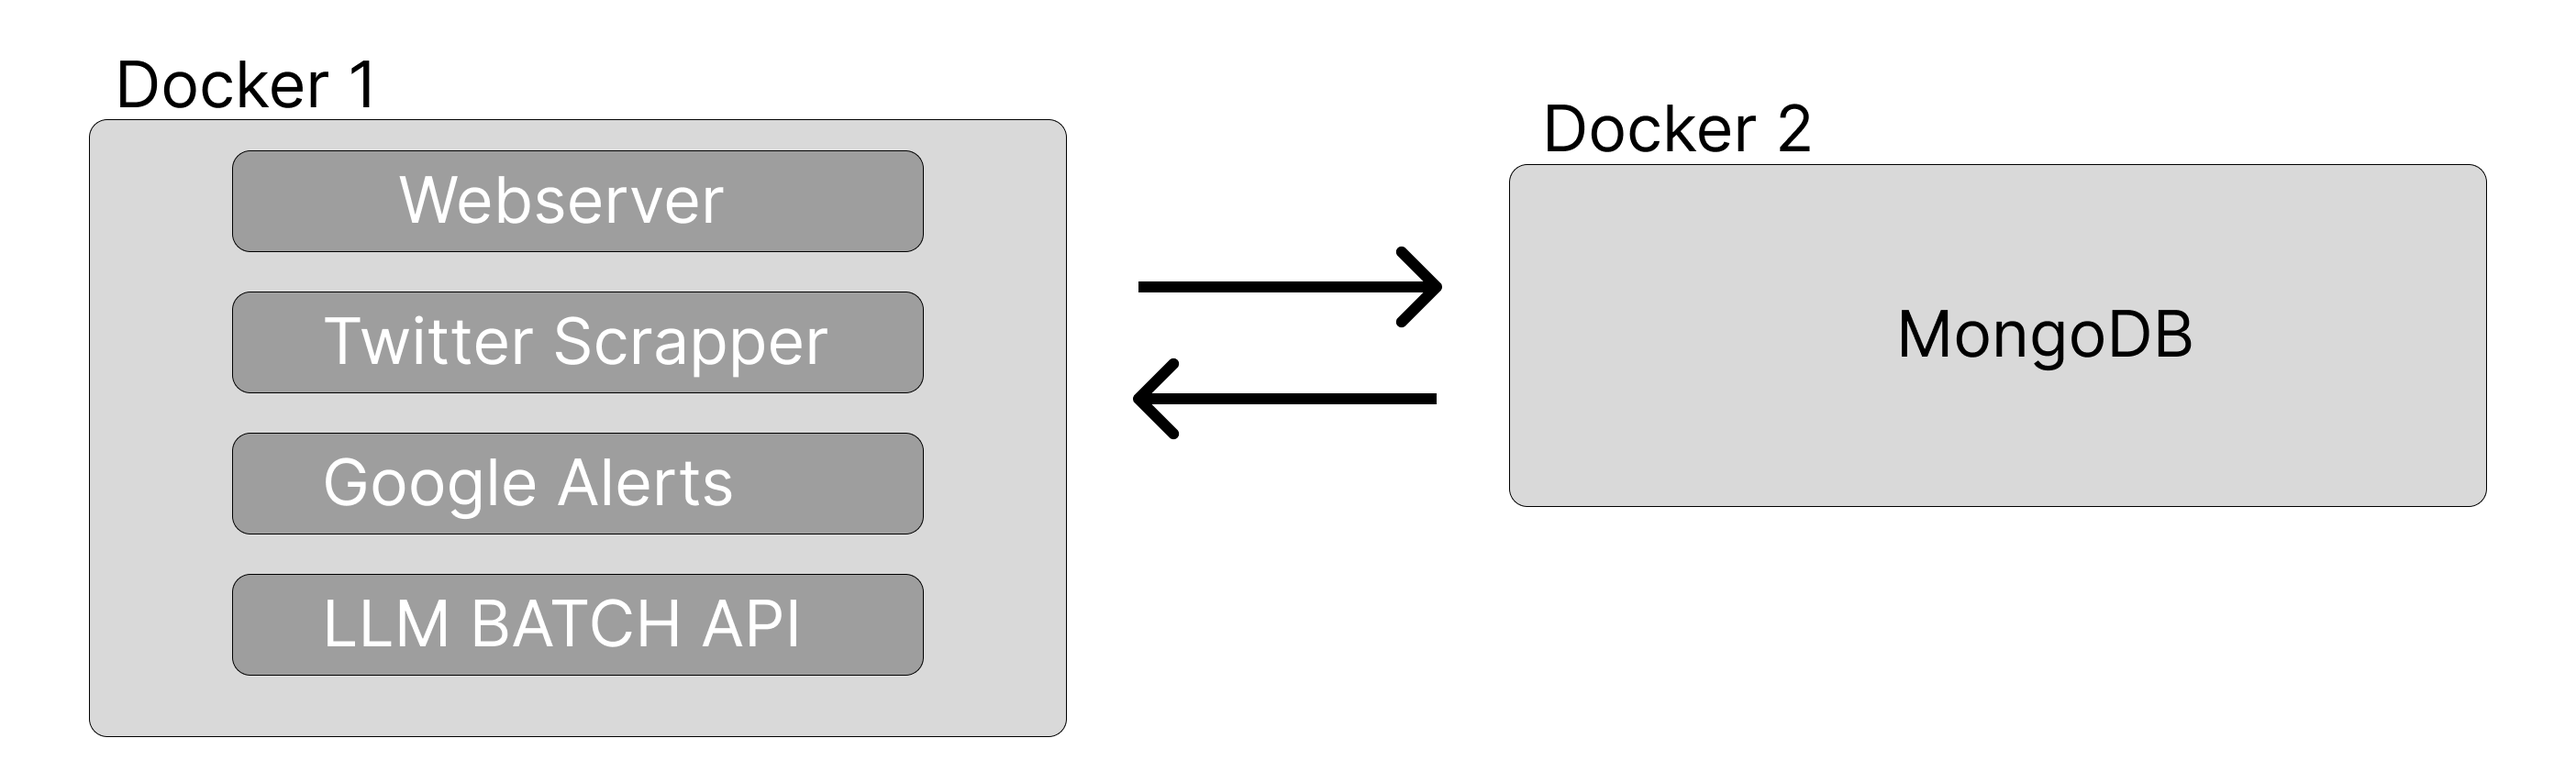
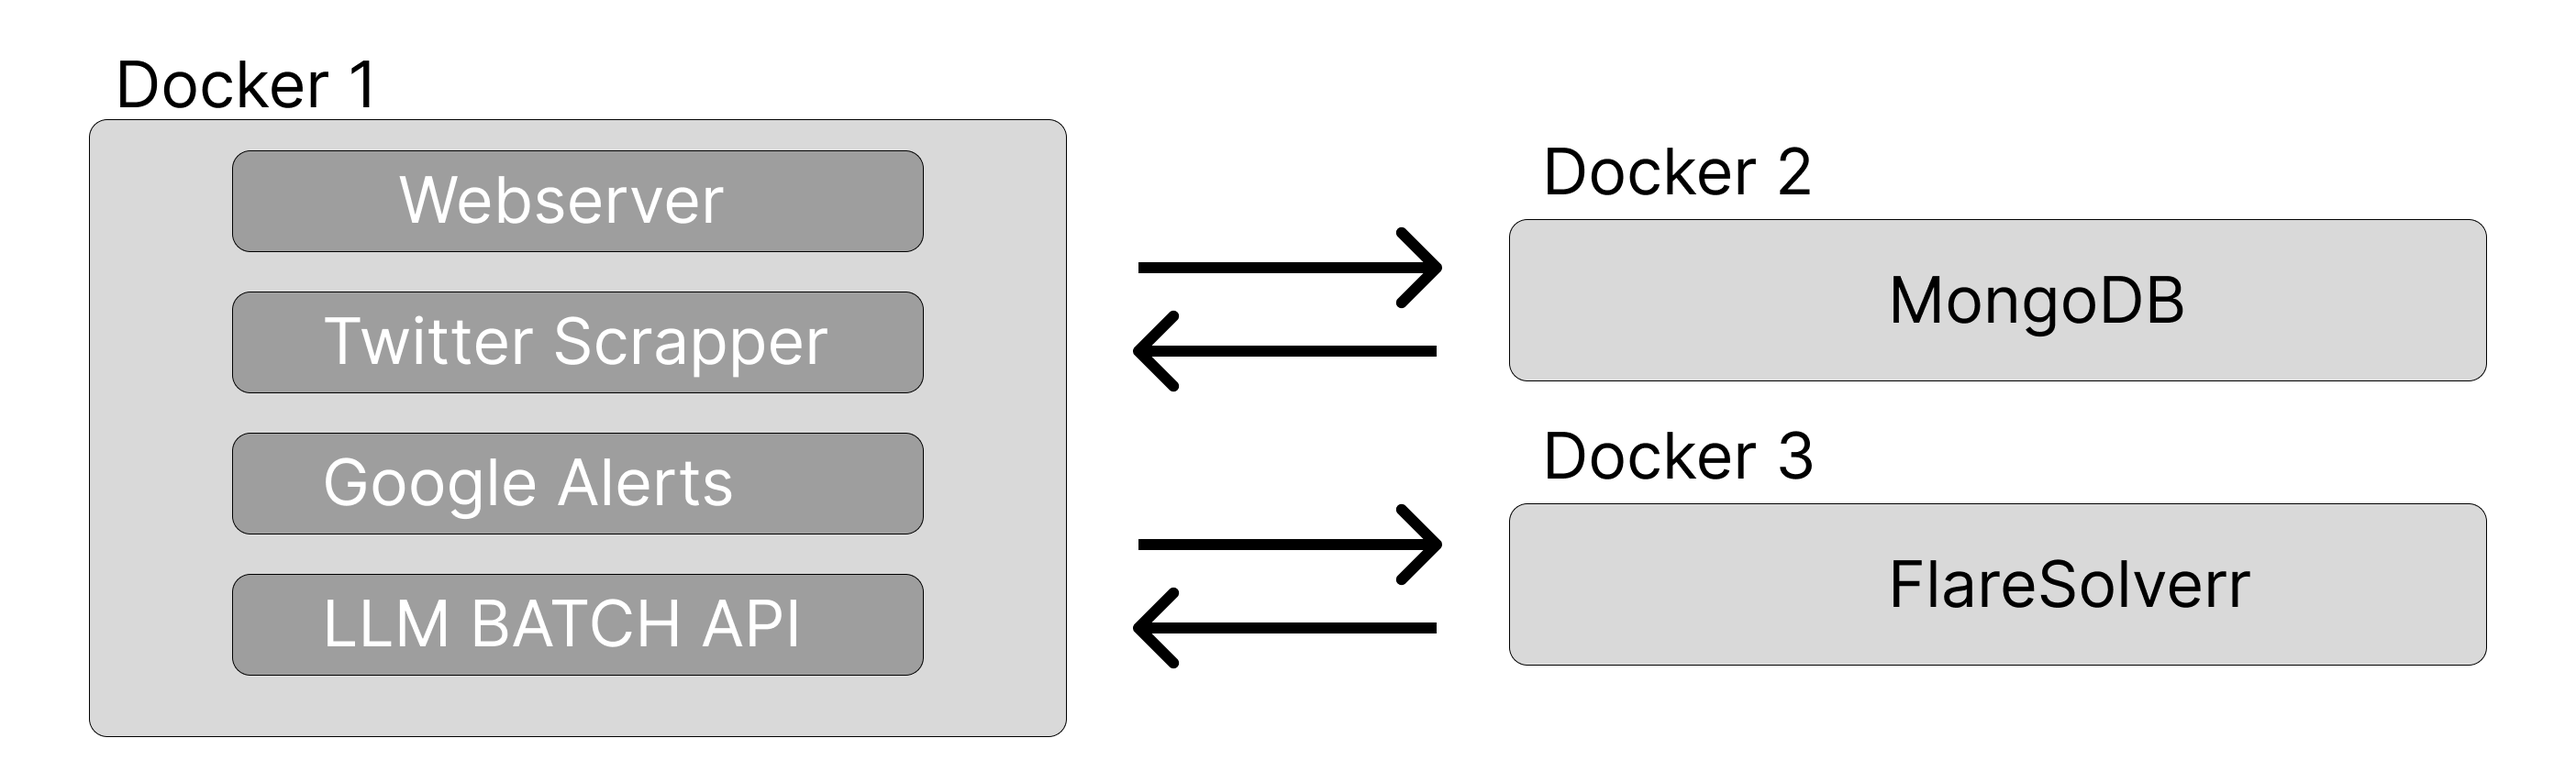
update to use flaresolver

diff --git a/rss.py b/rss.py
@@ -35,6 +35,7 @@ class NewsChecker:
         self.llm_requests = []
         self.url_proxies = {'http':f"http://{prox['username']}:{prox['password']}@{prox['ip']}:{prox['port']}",
                 'https':f"http://{prox['username']}:{prox['password']}@{prox['ip']}:{prox['port']}"}
+        self.solver_proxy = {"url": "http://{prox['ip']}:{prox['port']}", "username": prox['username'], "password": prox['password']}
         self.LLM = LLM.LLMBatchProcessor(config_path)
         self.fetch_llm_results()
         self.__check()
@@ -45,6 +46,7 @@ class NewsChecker:
         self.logs.debug(f"RSS - Fetching URL {url}")
         headers = {"User-Agent": "Mozilla/5.0 (Windows NT 10.0; Win64; x64; rv:131.0) Gecko/20100101 Firefox/131.0"}
         PROXY_DATA = self.url_proxies
+        solvedwflaresolver = False
         try:
             response = requests.get(url, headers=headers, proxies=PROXY_DATA, timeout=(5, 10), verify=True)
             response.raise_for_status()  # Handle HTTP errors
@@ -61,13 +63,27 @@ class NewsChecker:
             self.logs.error(f"RSS - Too many redirects for URL {url}")
             return ""
         except requests.exceptions.RequestException as e:
-            self.logs.error(f"RSS - Error fetching URL {url}: {e}")
+            self.logs.info(f"RSS - Error fetching URL {url}: {e}")
+            try:
+                #Try to solve with FlareSolverr
+                url_fs = self.CONFIG['FlareSolverr']
+                headers = {"Content-Type": "application/json"}
+                data = {
+                    "cmd": "request.get",
+                    "url": url,
+                    "maxTimeout": 6000,
+                    "proxy" : self.solver_proxy
+                }
+                response = requests.post(url_fs, headers=headers, json=data)
+                solvedwflaresolver = True
+            except Exception as e:
+                self.logs.error(f"RSS - Solve Error with FlareSolverr failed for {url} with error: {e}")
             return ""
         except Exception as e:
             self.logs.error(f"RSS - Unexpected error fetching URL {url}: {e}")
             return ""
-        
-        soup = BeautifulSoup(response.content, 'html.parser')
+        html_content = response.json()['solution']['response'] if solvedwflaresolver else response.content #different key for both method ;(
+        soup = BeautifulSoup(html_content, 'html.parser')
         page_title = soup.title.string if soup.title else 'No Title'
         page_contents = soup.get_text()
         page_contents = ' '.join(page_contents.split())
@@ -157,7 +173,7 @@ class NewsChecker:
                         'constituencies_party' : entry['constituencies_party'],
                         'groups_organization' : entry['groups_organization'],
                         'is_news' : True,
-                        'in_transparency' : self.__check_website(rss_element.link), #should have a better news filter ??
+                        'in_transparency' : self.__check_website(rss_element.link), #Set news item as false as some news are in transparency register,
                         'llm_run' : False,
                         'llm_state' : 'pending',
                         'llm_score' : 0,

diff --git a/README.md b/README.md
@@ -12,6 +12,7 @@ Features :
     4. Flag clicked links as such
     5. Predict Revolving Door cases through an LLM
         1. Handle youtube videos content by downloading subtitles
+        2. Solved protected website with FlareSolverr
 3. Manually add people to the Twitter or Google Alerts watch.
     1. Add a subject to classify by investigation. 
 
